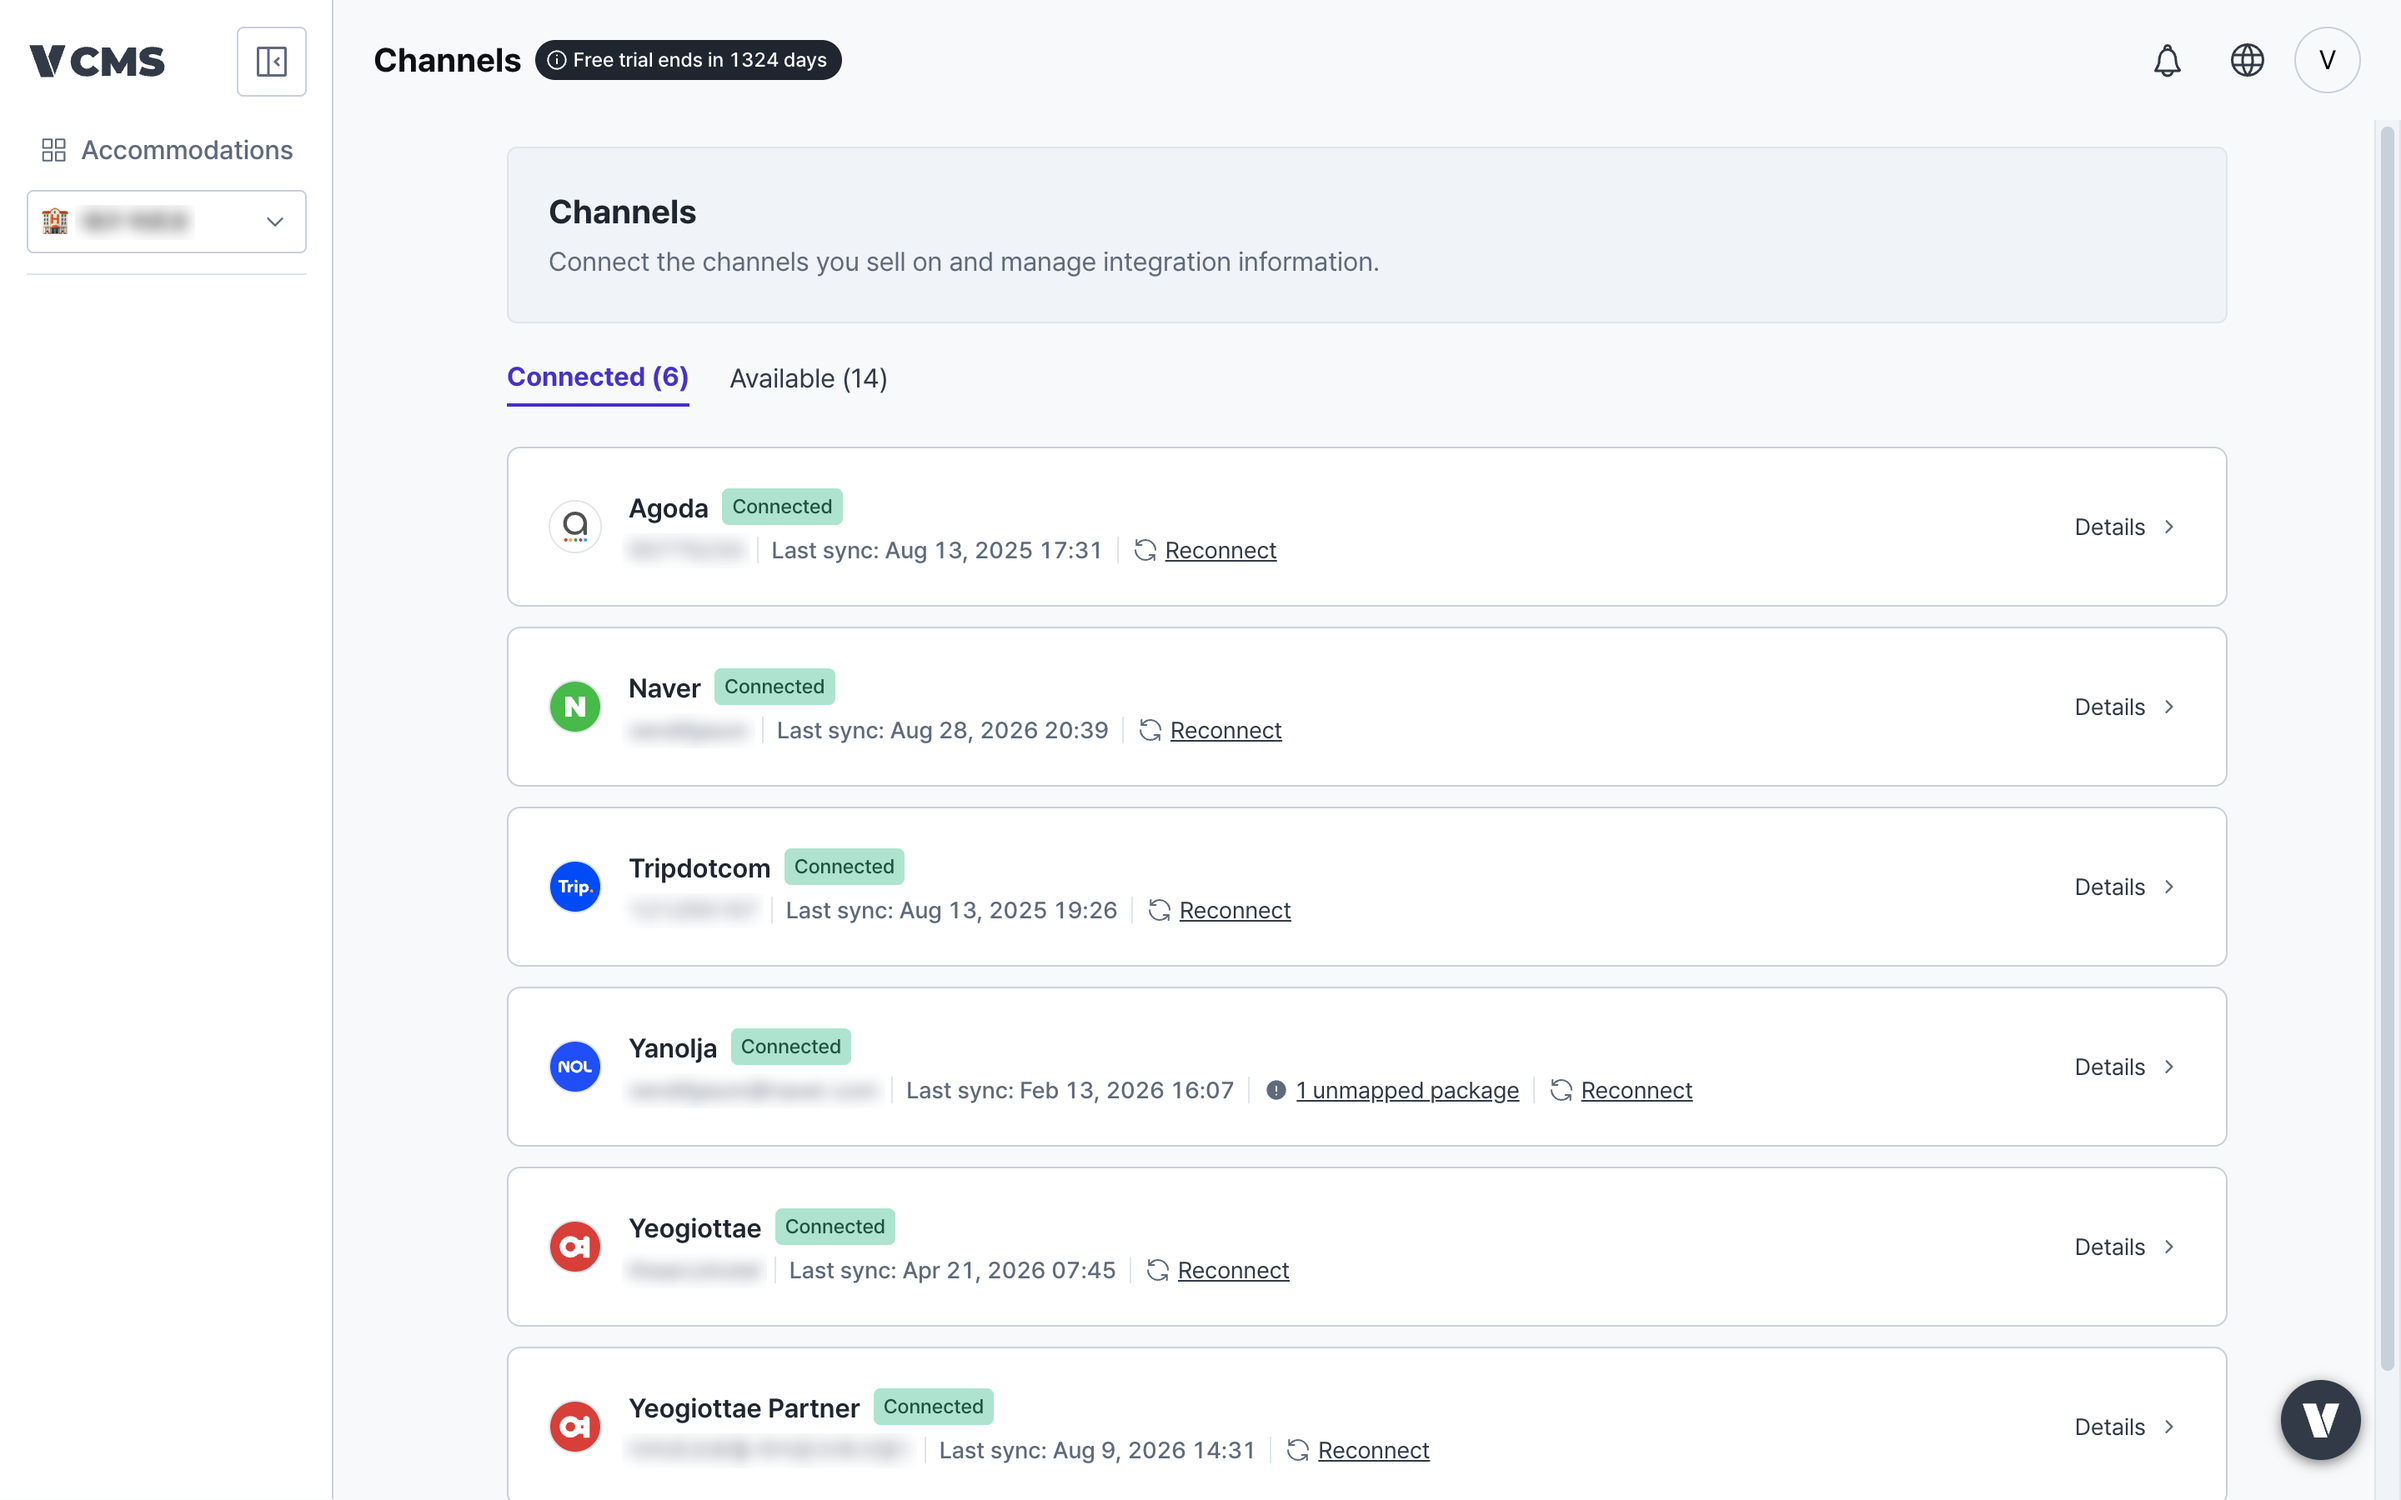
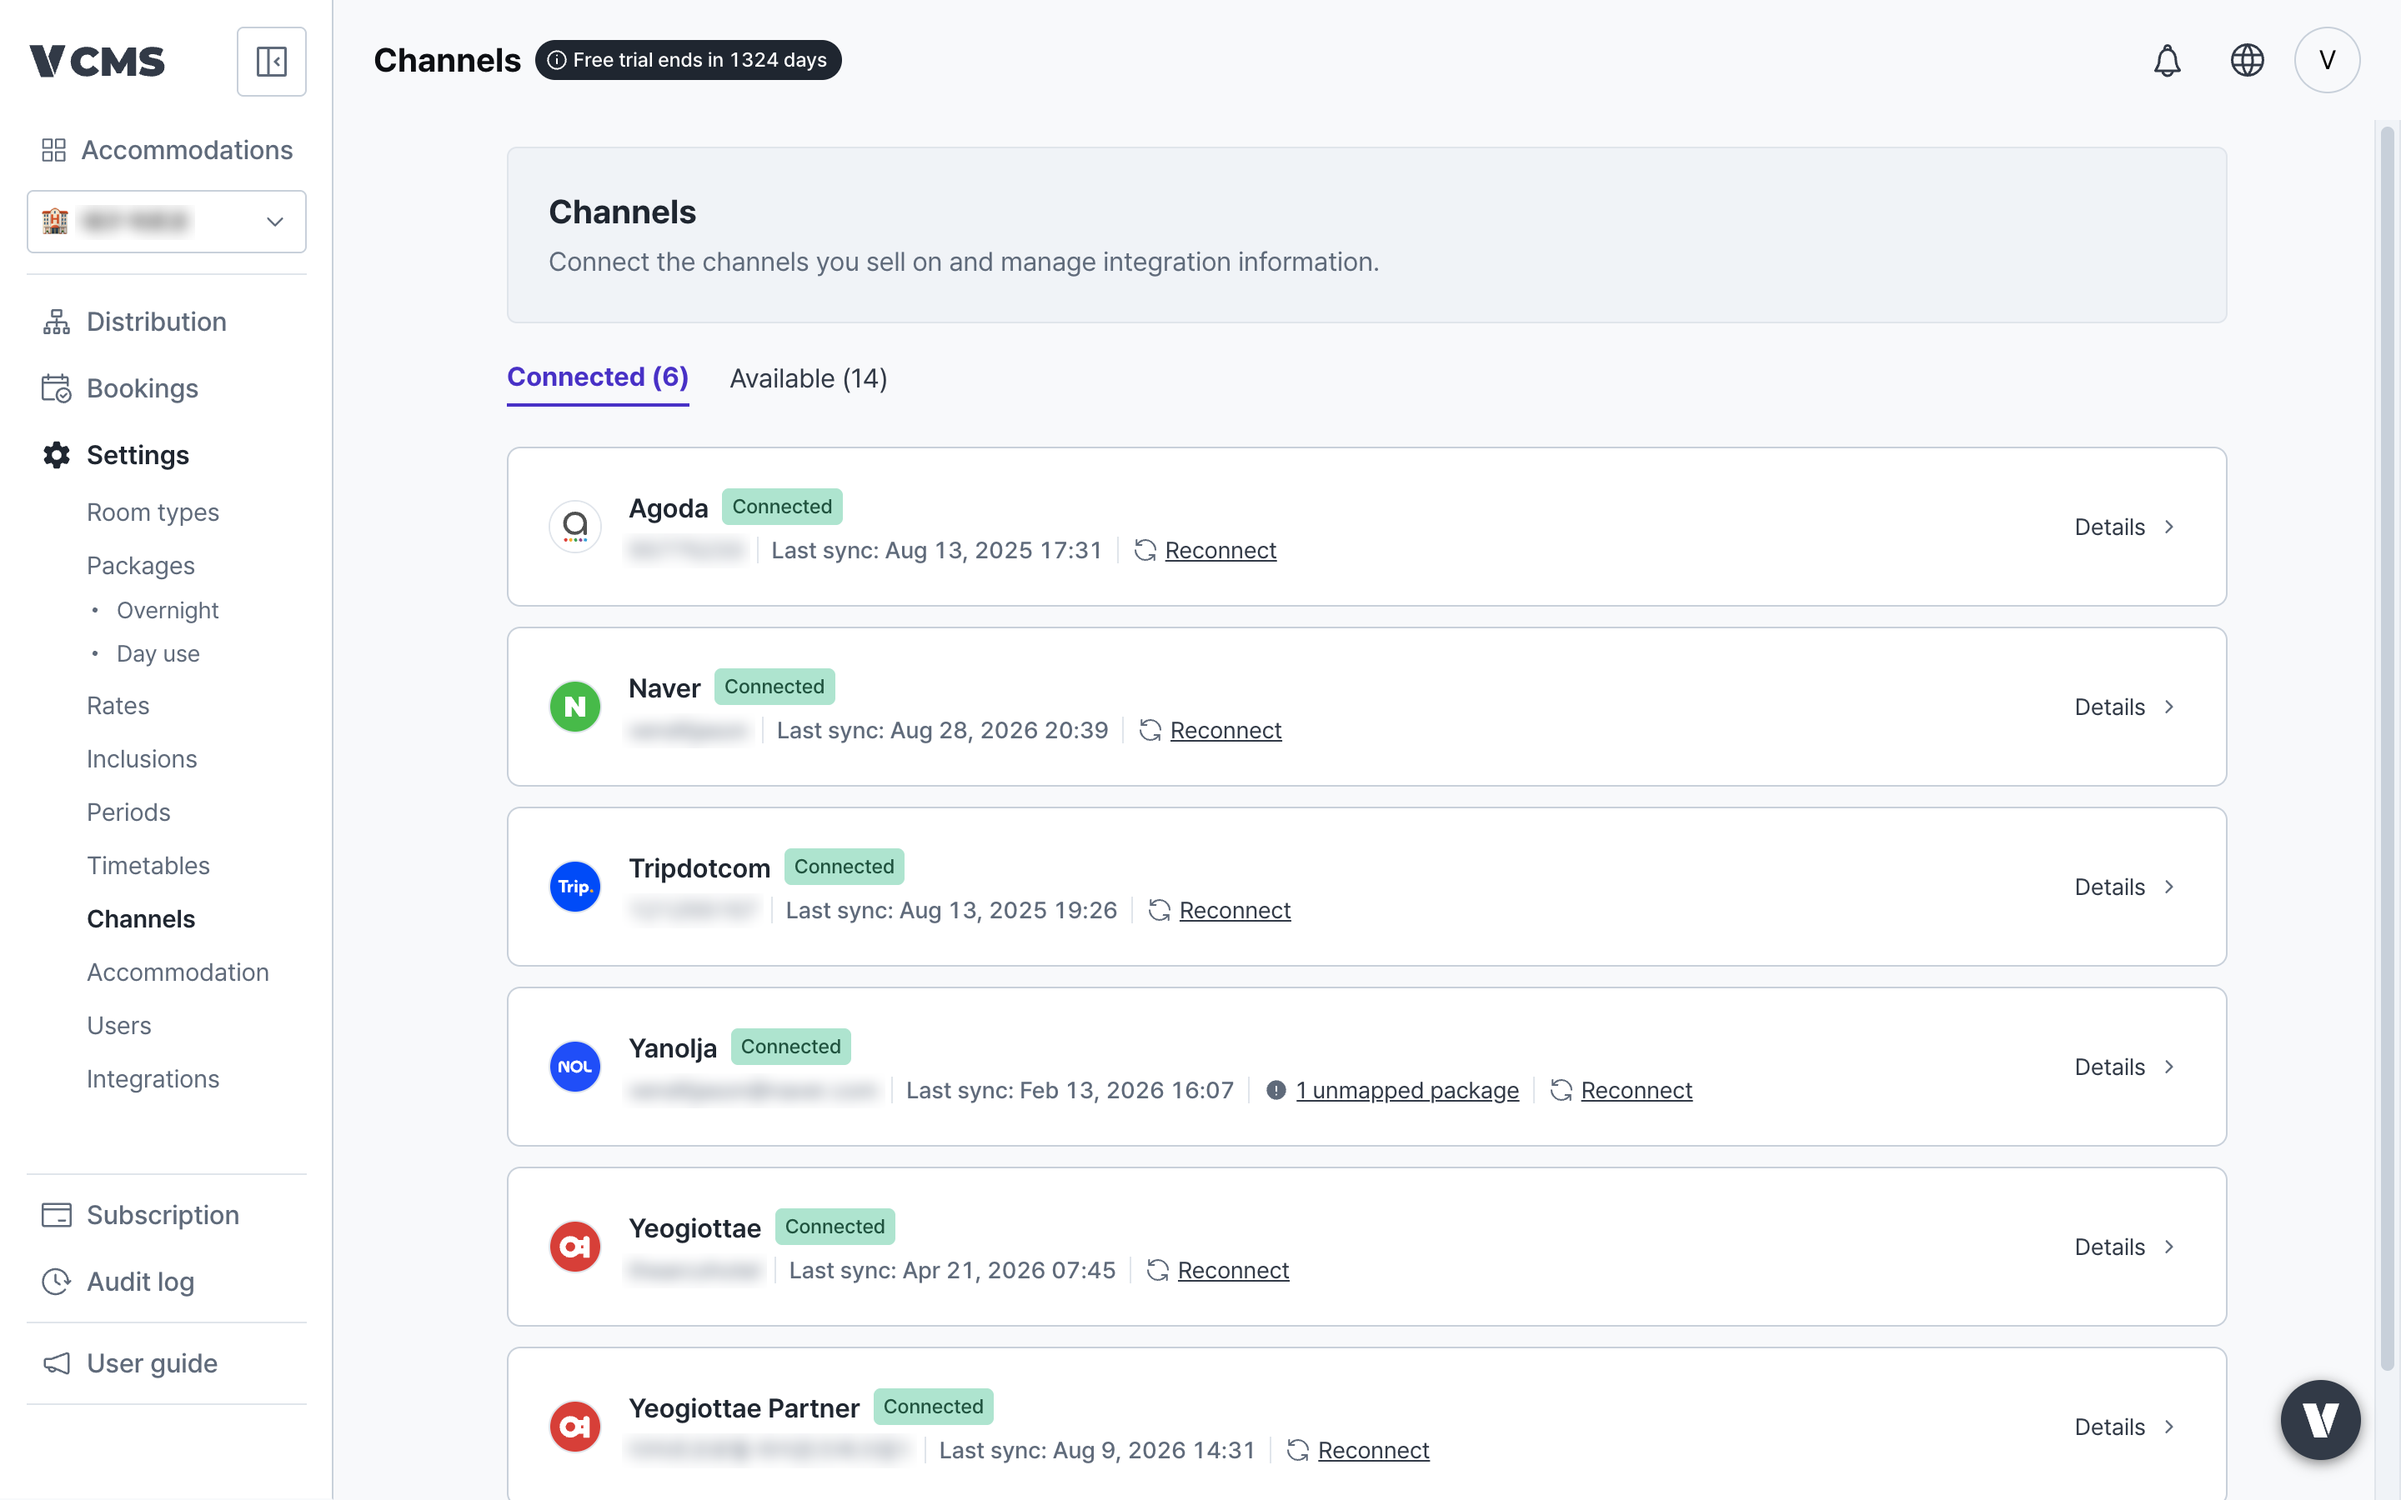
fix(en): reshoot the nine channel captures that lost their sidebar
All nine shipped with an empty left nav. HIDE_INTERNAL climbed three
parents from the "VENDIT only" menu item unconditionally to hide it;
on the properties these were shot from, three levels up is the whole
nav. It now climbs only while the parent holds nothing but that item.

Reshooting exposed a worse bug. Blur rectangles were measured against
a DOM that had not finished rendering, so a capture came back with one
blur and four room type names plus four ULIDs printed in the clear.
FIND returned nine rects for the same screen moments later. settle()
now waits for innerText length and element count to repeat before any
coordinate is read.

Input values no longer reach the log. root@vcms.io came from browser
autofill and was printed while being correctly blurred in the image.

check_captures.py measures contrast in the sidebar region and fails on
anything flat, because this class of damage is easy to miss when the
modal in front of it looks right.

All nine stay 2880x1800, so Mintlify's cached dimensions still hold and
no rename is needed. Both properties were left as found: VENDIT HOTEL
Connected (0) / Available (20), 대구 아르코 Connected (6) / Available (14).
No Save, Connect, Disconnect, Reconnect, or Sign in was pressed.

Claude-Session: https://claude.ai/code/session_019Vy8eXqpAmz6BQKUq8Q9kW

diff --git a/scripts/capture_redacted.py b/scripts/capture_redacted.py
@@ -52,10 +52,14 @@ FIX_MAN = (
     'const c=conv(t);if(c!==t){n.nodeValue=c;fixed.push(c.trim());}}return fixed;})()')
 
 HIDE_INTERNAL = '''(()=>{let n=0;
+ // 3단계를 무조건 올라가면 안 된다. 2026-09-14 에 대구 아르코에서 사이드바 nav 전체를 지웠고
+ // 그대로 배포됐다(en-channel-*.png 9장). DOM 중첩은 업장마다 다르다.
+ // 부모가 "VENDIT only" 말고 아무것도 안 가진 동안만 올라간다. 형제가 있으면 거기서 멈춘다.
  for(const e of document.querySelectorAll("*")){
   if(e.childElementCount)continue;
   if(/^VENDIT only$/.test((e.innerText||"").trim())){
-    let t=e;for(let i=0;i<3&&t.parentElement;i++)t=t.parentElement;
+    let t=e;
+    while(t.parentElement&&/^VENDIT only$/.test((t.parentElement.innerText||"").trim()))t=t.parentElement;
     t.style.visibility="hidden";n++;}}
  return n;})()'''
 
@@ -146,12 +150,35 @@ FIND = r'''(()=>{
    if(!cred&&!han.test(v)&&!re.test(v))continue;
    const r=el.getBoundingClientRect();
    if(!vis(el)||r.width<8||r.height<8)continue;
-   push(r,"input["+(el.type||"text")+"] "+(cred?"":v.slice(0,24)),el);
+   const safe=!cred&&!re.test(v);
+   push(r,"input["+(el.type||"text")+"] "+(safe?v.slice(0,24):"<가림>"),el);
  }
  return out;})()'''
 
 
+SETTLE = ('(()=>[document.body.innerText.length,'
+          'document.querySelectorAll("*").length])()')
+
+
+async def settle(cdp, tries=25, gap=0.4):
+    """DOM 이 멈출 때까지 기다린다.
+
+    이게 없으면 블러 좌표를 덜 그려진 화면에서 계산하고, 그 다음 순간 렌더된 글씨가
+    그대로 찍힌다. 2026-09-14 에 실제로 났다. 객실 타입명 4개와 ULID 4개가
+    안 가려진 채 나왔고 블러는 1건만 잡혔다. 찍기 직전에 한 번 더 재는 게 아니라
+    **멈춘 걸 확인하고** 재야 한다.
+    """
+    prev = None
+    for _ in range(tries):
+        cur = await cdp.js(SETTLE)
+        if cur == prev:
+            return cur
+        prev = cur
+        await asyncio.sleep(gap)
+    return prev
+
 async def main():
+
     out_path = sys.argv[1]
     do_blur = "--no-blur" not in sys.argv
     async with websockets.connect(C.page_ws(), max_size=None) as ws:
@@ -160,6 +187,7 @@ async def main():
         await cdp.send("Runtime.enable")
         await cdp.send("Page.bringToFront")
         await asyncio.sleep(2.5)
+        await settle(cdp)
         hidden = await cdp.js(HIDE_INTERNAL)
         # `만` 은 계정 데이터가 아니라 통화 단위 축약이다. 가리면 요금값이 사라지니
         # 가리기 전에 영어 자릿수로 바꿔놓는다. 안 바꾸면 아래 한글 규칙이 `+3만` 을 통째로 먹는다.

diff --git a/scripts/check_captures.py b/scripts/check_captures.py
@@ -1,0 +1,60 @@
+#!/usr/bin/env python3
+"""영어 캡처에서 사이드바가 통째로 날아갔는지 본다.
+
+    python3 scripts/check_captures.py
+
+2026-09-13 에 채널 캡처 9장이 사이드바 없이 배포됐다. 원인은 내부 메뉴를 가리는
+`HIDE_INTERNAL` 이 부모를 3단계 무조건 올라가서 nav 를 통째로 숨긴 것이다.
+사람 눈으로는 모달만 보고 넘어가기 쉬웠다. 그래서 기계로 센다.
+
+판정은 왼쪽 사이드바 영역의 명암 표준편차다. 메뉴 글자가 있으면 값이 크고,
+흰 바탕만 남으면 0 에 가깝다. 사이드바가 원래 없는 화면은 SKIP 에 적어둔다.
+"""
+import os
+import subprocess
+import sys
+
+IMAGES = "images"
+# 사이드바가 원래 없는 화면. 로그인 화면과 잘라낸 범례 조각.
+SKIP = {
+    "en-signin-email.png", "en-signin-phone.png",
+    "en-legend-availability-2.png", "en-legend-change-status-2.png",
+    "en-legend-rate-adjustment.png", "en-legend-rate-status-2.png",
+    "en-legend-sell-status-2.png",
+}
+CROP = "330x1200+20+420"   # 사이드바 메뉴가 있어야 할 자리
+FLOOR = 2.0                # 이 아래면 빈 것으로 본다
+
+
+def sidebar_ink(path):
+    r = subprocess.run(
+        ["magick", path, "-crop", CROP, "+repage", "-colorspace", "Gray",
+         "-format", "%[fx:standard_deviation*100]", "info:"],
+        capture_output=True, text=True)
+    try:
+        return float(r.stdout.strip())
+    except ValueError:
+        return None
+
+
+def main():
+    bad, checked = [], 0
+    for f in sorted(os.listdir(IMAGES)):
+        if not f.startswith("en-") or not f.endswith(".png") or f in SKIP:
+            continue
+        sd = sidebar_ink(os.path.join(IMAGES, f))
+        if sd is None:
+            continue
+        checked += 1
+        if sd < FLOOR:
+            bad.append((f, sd))
+    print(f"영어 캡처 {checked}장 검사 · 사이드바 빈 것 {len(bad)}장")
+    for f, sd in bad:
+        print(f"  {f}  sd={sd:.2f}")
+    if bad:
+        print("\n다시 찍어라. scripts/capture_redacted.py 로 찍으면 사이드바가 남는다.")
+    return 1 if bad else 0
+
+
+if __name__ == "__main__":
+    sys.exit(main())

diff --git a/CHANGELOG.md b/CHANGELOG.md
@@ -1,5 +1,12 @@
 # CHANGELOG
 
+## 2026-09-14
+- 채널 캡처 9장 재촬영. 사이드바가 통째로 비어 있던 걸 고쳤다 (images/en-channel-*.png)
+- 내부 메뉴 숨김이 부모를 3단계 무조건 올라가 nav 를 지우던 것 수정 (scripts/capture_redacted.py)
+- 블러 좌표를 덜 그려진 DOM 에서 재던 경합 수정, settle() 추가 (scripts/capture_redacted.py)
+- 입력칸 값이 로그에 찍히던 것 차단, 식별자 모양이면 <가림> 으로 (scripts/capture_redacted.py)
+- 사이드바 빈 캡처를 기계로 잡는 검사기 추가 (scripts/check_captures.py)
+
 ## 2026-09-13
 - 영어 페이지가 참조하던 한글 이름 이미지 32개를 영어 이름 사본으로 교체, 한국어 원본은 ko 가 계속 쓴다 (images/, en/**/*.mdx)
 - 한국어 야놀자 지연 FAQ 의 알림 연락처 이미지를 새 파일명으로 옮겨 Mintlify 의 낡은 치수 캐시를 깼다 (images/설정_숙박업소_알림연락처-2.png, ko/faq/issue/yanolja-booking-delay.mdx)
